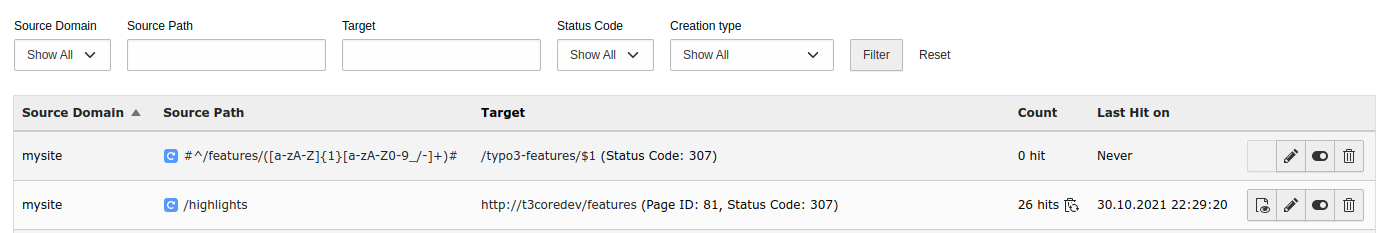
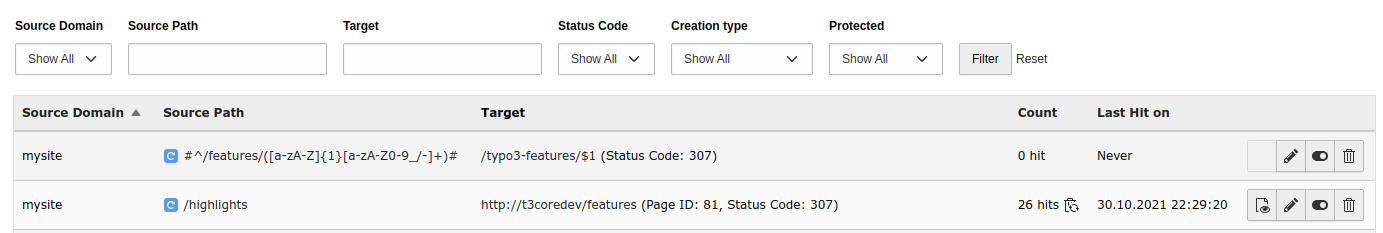
[FEATURE] Allow redirect filtering by "protected" state
The redirects module does currently not allow to filter redirects
based on the `protected` state. This making it hard to effectively
administrate protected redirects on websites with a huge amount of
redirects.

This change introduces a new filter option in the redirect
administration module which makes it possible to filter redirects
based on the `protected` state.

Protected redirects are now also visually highlighted by a lock-icon
in the list of redirects.

Additionally, unit- and functional-tests have been extended to
cover redirect filtering based on the `creation_type` and
`protected` state.

Resolves: #102072
Releases: main

Changed region(s): [[0.0, 0.0901, 0.7773, 0.2704], [0.0, 0.3004, 0.7151, 0.3305]]

diff --git a/Resources/Private/Templates/Management/Overview.html b/Resources/Private/Templates/Management/Overview.html
@@ -62,6 +62,7 @@
         <table class="table table-striped table-hover">
             <thead>
                 <tr>
+                    <th></th>
                     <th>
                         <f:render section="listHeaderSorting" arguments="{field: 'source_host', label: 'sys_redirect.source_host', demand: demand}"/>
                     </th>
@@ -81,6 +82,16 @@
                     <f:variable name="pageId" value="{rd:targetPageId(target:redirect.target)}" />
                     <f:variable name="targetUri" value="{f:uri.typolink(parameter:redirect.target)}" />
                     <tr>
+                        <td>
+                            <f:if condition="{redirect.protected}">
+                                <f:then>
+                                    <span title="{f:translate(key: 'LLL:EXT:redirects/Resources/Private/Language/locallang_module_redirect.xlf:redirect_protected')}"><core:icon identifier="actions-lock" /></span>
+                                </f:then>
+                                <f:else>
+                                    <core:icon identifier="miscellaneous-placeholder" />
+                                </f:else>
+                            </f:if>
+                        </td>
                         <td>{redirect.source_host}</td>
                         <td>
                             <f:alias map="{
@@ -262,6 +273,14 @@
                     <f:for each="{creationTypes}" key="creationType" as="label">
                         <option value="{creationType}" {f:if(condition: '{demand.creationType} == {creationType}', then: 'selected')}>{f:translate(key: label, default: label)}</option>
                     </f:for>
+                </select>
+            </div>
+            <div class="form-group">
+                <label for="demand-target-protected" class="form-label"><f:translate key="LLL:EXT:redirects/Resources/Private/Language/locallang_module_redirect.xlf:filter.protected"/></label>
+                <select id="demand-target-protected" class="form-select" name="demand[protected]" data-on-change="submit">
+                    <option value="-1"><f:translate key="LLL:EXT:redirects/Resources/Private/Language/locallang_module_redirect.xlf:filter.protected.showAll"/></option>
+                    <option value="0" {f:if(condition: '{demand.protected} == 0', then: 'selected')}><f:translate key="LLL:EXT:redirects/Resources/Private/Language/locallang_module_redirect.xlf:filter.protected.unprotected"/></option>
+                    <option value="1" {f:if(condition: '{demand.protected} == 1', then: 'selected')}><f:translate key="LLL:EXT:redirects/Resources/Private/Language/locallang_module_redirect.xlf:filter.protected.protected"/></option>
                 </select>
             </div>
             <f:if condition="{showHitCounter}">

diff --git a/Classes/Repository/Demand.php b/Classes/Repository/Demand.php
@@ -52,6 +52,7 @@ class Demand
     private int $maxHits;
     private ?\DateTimeInterface $olderThan;
     protected ?int $creationType = -1;
+    protected ?int $protected = -1;
 
     public function __construct(
         int $page = 1,
@@ -63,7 +64,8 @@ class Demand
         array $statusCodes = [],
         int $maxHits = 0,
         \DateTimeInterface $olderThan = null,
-        ?int $creationType = -1
+        ?int $creationType = -1,
+        ?int $protected = -1
     ) {
         $this->page = $page;
         if (!in_array($orderField, self::ORDER_FIELDS, true)) {
@@ -82,6 +84,7 @@ class Demand
         $this->maxHits = $maxHits;
         $this->olderThan = $olderThan;
         $this->creationType = $creationType;
+        $this->protected = $protected;
     }
 
     public static function fromRequest(ServerRequestInterface $request): self
@@ -101,7 +104,8 @@ class Demand
         $target = $demand['target'] ?? '';
         $maxHits = (int)($demand['max_hits'] ?? 0);
         $creationType = isset($demand['creation_type']) ? ((int)$demand['creation_type']) : -1;
-        return new self($page, $orderField, $orderDirection, $sourceHosts, $sourcePath, $target, $statusCodes, $maxHits, null, $creationType);
+        $protected = isset($demand['protected']) ? ((int)$demand['protected']) : -1;
+        return new self($page, $orderField, $orderDirection, $sourceHosts, $sourcePath, $target, $statusCodes, $maxHits, null, $creationType, $protected);
     }
 
     public static function fromCommandInput(InputInterface $input): self
@@ -204,6 +208,11 @@ class Demand
         return $this->creationType;
     }
 
+    public function getProtected(): ?int
+    {
+        return $this->protected;
+    }
+
     public function getFirstStatusCode(): int
     {
         return $this->statusCodes[0] ?? 0;
@@ -239,6 +248,11 @@ class Demand
         return $this->creationType !== null && $this->creationType !== -1;
     }
 
+    public function hasProtected(): bool
+    {
+        return $this->protected !== null && $this->protected !== -1;
+    }
+
     public function hasConstraints(): bool
     {
         return $this->hasSourcePath()
@@ -246,7 +260,8 @@ class Demand
             || $this->hasTarget()
             || $this->hasStatusCodes()
             || $this->hasMaxHits()
-            || $this->hasCreationType();
+            || $this->hasCreationType()
+            || $this->hasProtected();
     }
 
     /**
@@ -285,6 +300,9 @@ class Demand
         }
         if ($this->hasCreationType()) {
             $parameters['creation_type'] = $this->getCreationType();
+        }
+        if ($this->hasProtected()) {
+            $parameters['protected'] = $this->getProtected();
         }
         return $parameters;
     }

diff --git a/Tests/Unit/Repository/DemandTest.php b/Tests/Unit/Repository/DemandTest.php
@@ -25,14 +25,50 @@ final class DemandTest extends UnitTestCase
     public static function getParametersRespectsDemandStateStateDataProvider(): array
     {
         return [
-            [[1, '', '', [], '', '', []], []],
-            [[2, '', '', ['host'], '', '', []], ['source_host' => 'host']],
-            [[3, '', '', [], 'path', '', []], ['source_path' => 'path']],
-            [[4, '', '', [], '', 'target', []], ['target' => 'target']],
-            [[5, '', '', [], '', '', [301]], ['target_statuscode' => 301]],
-            [[6, '', '', ['host'], '', 'target'], ['source_host' => 'host', 'target' => 'target']],
-            [[7, '', '', [], 'path', '', [302]], ['source_path' => 'path', 'target_statuscode' => 302]],
-            [[8, '', '', ['host'], 'path', 'target', [307]], ['source_path' => 'path', 'source_host' => 'host', 'target' => 'target', 'target_statuscode' => 307]],
+            [
+                [1, '', '', [], '', '', []],
+                [],
+            ],
+            [
+                [2, '', '', ['host'], '', '', []],
+                ['source_host' => 'host'],
+            ],
+            [
+                [3, '', '', [], 'path', '', []],
+                ['source_path' => 'path'],
+            ],
+            [
+                [4, '', '', [], '', 'target', []],
+                ['target' => 'target'],
+            ],
+            [
+                [5, '', '', [], '', '', [301]],
+                ['target_statuscode' => 301],
+            ],
+            [
+                [6, '', '', ['host'], '', 'target'],
+                ['source_host' => 'host', 'target' => 'target'],
+            ],
+            [
+                [7, '', '', [], 'path', '', [302]],
+                ['source_path' => 'path', 'target_statuscode' => 302],
+            ],
+            [
+                [8, '', '', ['host'], 'path', 'target', [307]],
+                ['source_path' => 'path', 'source_host' => 'host', 'target' => 'target', 'target_statuscode' => 307],
+            ],
+            [
+                [9, '', '', [], '', '', [], 100],
+                ['max_hits' => 100],
+            ],
+            [
+                [10, '', '', [], '', '', [], 0, null, 1],
+                ['creation_type' => 1],
+            ],
+            [
+                [11, '', '', [], '', '', [], 0, null, -1, 1],
+                ['protected' => 1],
+            ],
         ];
     }
 

diff --git a/Tests/Functional/Repository/RedirectRepositoryTest.php b/Tests/Functional/Repository/RedirectRepositoryTest.php
@@ -81,6 +81,11 @@ final class RedirectRepositoryTest extends FunctionalTestCase
                 $allRecordCount,
                 $allRecordCount - 3,
             ],
+            'demand with creation type "manually created"' => [
+                self::getDemand(0, [], [], '', 1),
+                $allRecordCount,
+                $allRecordCount - 1,
+            ],
         ];
     }
 
@@ -140,6 +145,14 @@ final class RedirectRepositoryTest extends FunctionalTestCase
             new Demand(target: 'https://example.com/bar'),
             5,
         ];
+        yield 'demand with creation type "manually created"' => [
+            new Demand(creationType: 1),
+            1,
+        ];
+        yield 'demand with protected state' => [
+            new Demand(protected: 1),
+            1,
+        ];
     }
 
     /**
@@ -171,7 +184,8 @@ final class RedirectRepositoryTest extends FunctionalTestCase
         int $hitCount = 0,
         array $statusCodes = [],
         array $domains = [],
-        string $path = ''
+        string $path = '',
+        int $creationType = -1
     ): Demand {
         return new Demand(
             1,
@@ -182,7 +196,8 @@ final class RedirectRepositoryTest extends FunctionalTestCase
             '',
             $statusCodes,
             $hitCount,
-            new \DateTimeImmutable('90 days ago')
+            new \DateTimeImmutable('90 days ago'),
+            $creationType
         );
     }
 }

diff --git a/Classes/Repository/RedirectRepository.php b/Classes/Repository/RedirectRepository.php
@@ -129,7 +129,14 @@ class RedirectRepository
         if ($demand->hasCreationType()) {
             $constraints[] = $queryBuilder->expr()->eq(
                 'creation_type',
-                $queryBuilder->createNamedParameter($demand->getCreationType(), \PDO::PARAM_INT)
+                $queryBuilder->createNamedParameter($demand->getCreationType(), Connection::PARAM_INT)
+            );
+        }
+
+        if ($demand->hasProtected()) {
+            $constraints[] = $queryBuilder->expr()->eq(
+                'protected',
+                $queryBuilder->createNamedParameter($demand->getProtected(), Connection::PARAM_INT)
             );
         }
 
@@ -232,7 +239,7 @@ class RedirectRepository
 
         if ($demand->hasCreationType()) {
             $queryBuilder->andWhere(
-                $queryBuilder->expr()->eq('creation_type', $queryBuilder->createNamedParameter($demand->getCreationType(), \PDO::PARAM_INT))
+                $queryBuilder->expr()->eq('creation_type', $queryBuilder->createNamedParameter($demand->getCreationType(), Connection::PARAM_INT))
             );
         }
 

diff --git a/Tests/Functional/Controller/ManagementControllerTest.php b/Tests/Functional/Controller/ManagementControllerTest.php
@@ -76,7 +76,7 @@ final class ManagementControllerTest extends FunctionalTestCase
         $eventListener = $container->get(ListenerProvider::class);
         $eventListener->addListener(ModifyRedirectManagementControllerViewDataEvent::class, 'modify-redirect-management-controller-view-data-event');
 
-        $response = $this->subject->handleRequest($request);
+        $this->subject->handleRequest($request);
 
         self::assertInstanceOf(ModifyRedirectManagementControllerViewDataEvent::class, $modifyRedirectManagementControllerViewDataEvent);
         self::assertSame($setHosts, $modifyRedirectManagementControllerViewDataEvent->getHosts());

diff --git a/Documentation/Usage/Index.rst b/Documentation/Usage/Index.rst
@@ -50,7 +50,7 @@ The :guilabel:`+` sign on the top will open an edit form to create a **new
 redirect**.
 
 It is also possible to **filter**, e.g. by the *Source Path*, *Status Code*,
-*Creation type* or only show redirect records which were "*Never hit*"
+*Creation type*, *Protected* or only show redirect records which were "*Never hit*"
 (see Information on :ref:`Hit counter <hit-counter>` which must be explicitly
 enabled via Feature Toggle).
 
